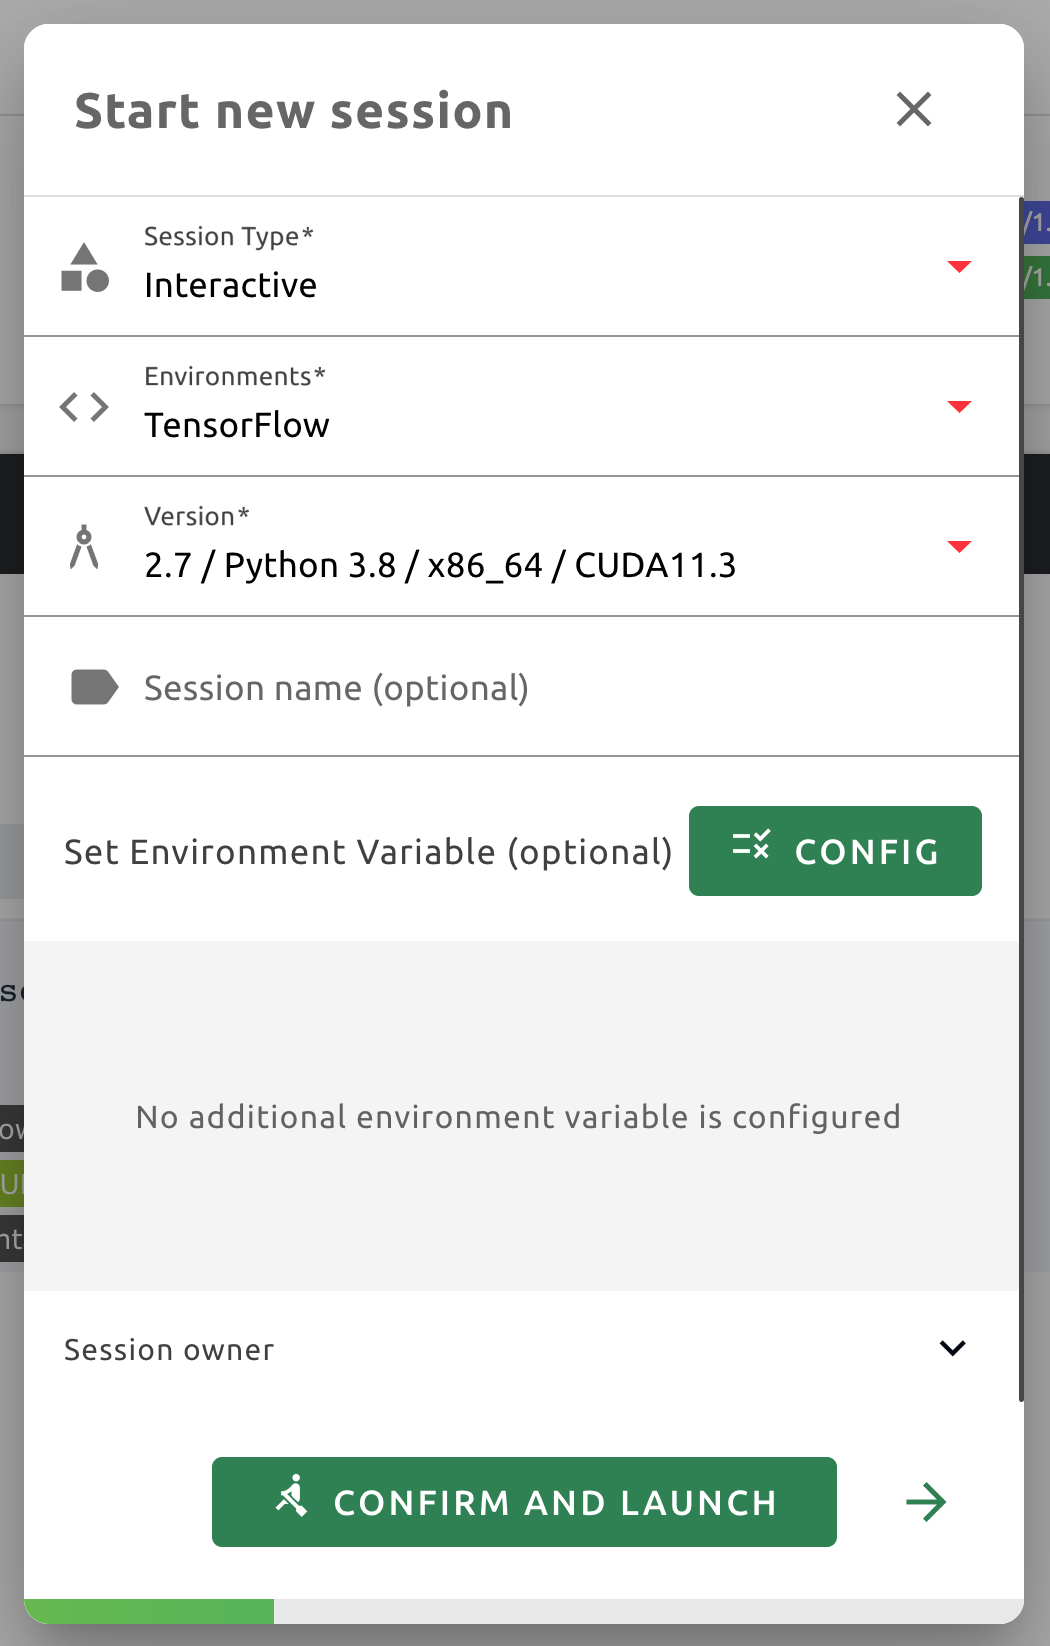
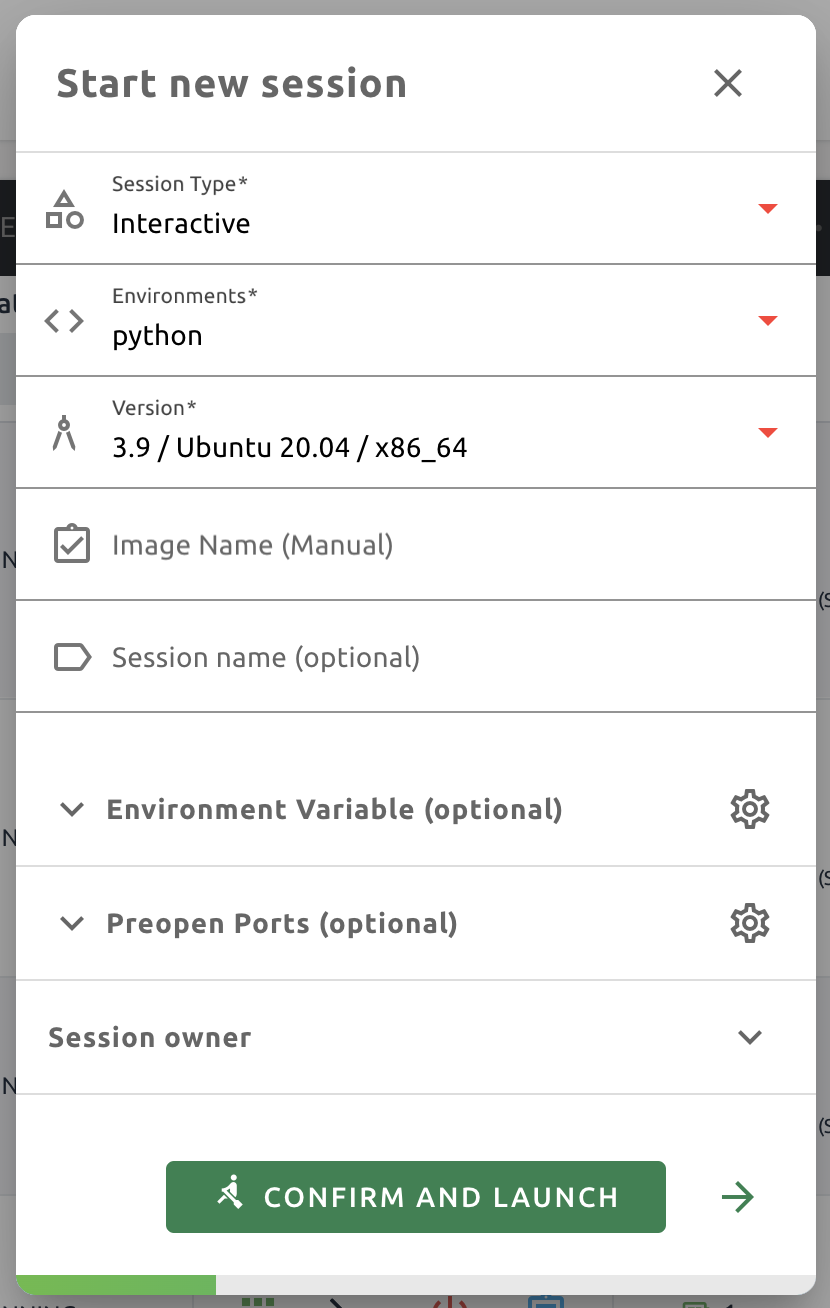
docs: update preopen ports of the session launcher

diff --git a/docs/sessions_all/sessions_all.rst b/docs/sessions_all/sessions_all.rst
@@ -79,6 +79,9 @@ please refer to the following.
   variables in a compute session. See the section
   :ref:`How to add environment variables before session creation<set-environment-variables>`
   on how to use.
+* Set Preopen Ports: Provides an interface for users to set preopen ports in a
+  compute session. See the section :ref:`How to add preopen ports before session creation
+  <set-preopen-ports>` on how to use.
 
 Click the right arrow button at the bottom to advance to the next page. You can
 also launch a compute session directly by clicking the CONFIRM AND LAUNCH
@@ -152,7 +155,7 @@ proceed to the next page.
 
 Now, we have reached the last page. You can view information of session(s) to create,
 such as environment itself, allocated resources, mount information,
-environment variables set on the previous pages, etc.
+environment variables set on the previous pages, preopen ports, etc.
 After confirming the settings, click the LAUNCH button. If there is a
 setting you want to change, you can return to the previous page by clicking the
 left arrow button.
@@ -419,7 +422,7 @@ To give more convenient workspace for users, Backend.AI supports environment var
 in session launching. In this feature, you can add any envs such as ``PATH`` by filling out
 variable name and value in environment configuration dialog.
 
-To add environment variable, simply click CONFIG button.
+To add environment variable, simply click setting icon button of the Environment Variable.
 
 .. image:: env-config-start.png
    :width: 350
@@ -454,6 +457,41 @@ Also, you can remove the variable by clicking ``-`` button of the row that you w
 
 If you want to delete the whole variables and value, please click DELETE ALL button at the bottom of the dialog.
 
+.. _set-preopen-ports:
+
+How to add preopen ports before creating a session
+--------------------------------------------------
+
+Backend.AI supports preopen ports setting at container startup. When using this feature, there is no need to build
+separate images when you want to expose the serving port.
+
+To add preopen ports, simply click the setting icon button of the Preopen Ports.
+
+.. image:: preopen-ports-config.png
+   :width: 350
+   :align: center
+   :alt: Preopen Ports Configuration
+
+and then, preopen ports configuration dialog appears.
+
+In this dialog, you can add, update and delete written preopen ports. To see more detail information, please click
+'i' button at the header of the dialog.
+
+.. image:: preopen-ports-config-dialog-info.png
+   :align: center
+   :alt: Preopen Ports Configuration info
+
+You can input between 1024 ~ 65535 port numbers to the input fields. Then, click the save button. You can check the
+configured preopen ports in the session app launcher.
+
+.. image:: session_app_launcher.png
+   :width: 400
+   :align: center
+
+.. note::
+   The preopen ports are **internal ports within the container**. Therefore, unlike other apps, when you click on the
+   preopen ports in the session app launcher, you will see a blank page. Please bind a server to the respective port
+   before using it.
 
 Save container commit
 ---------------------
